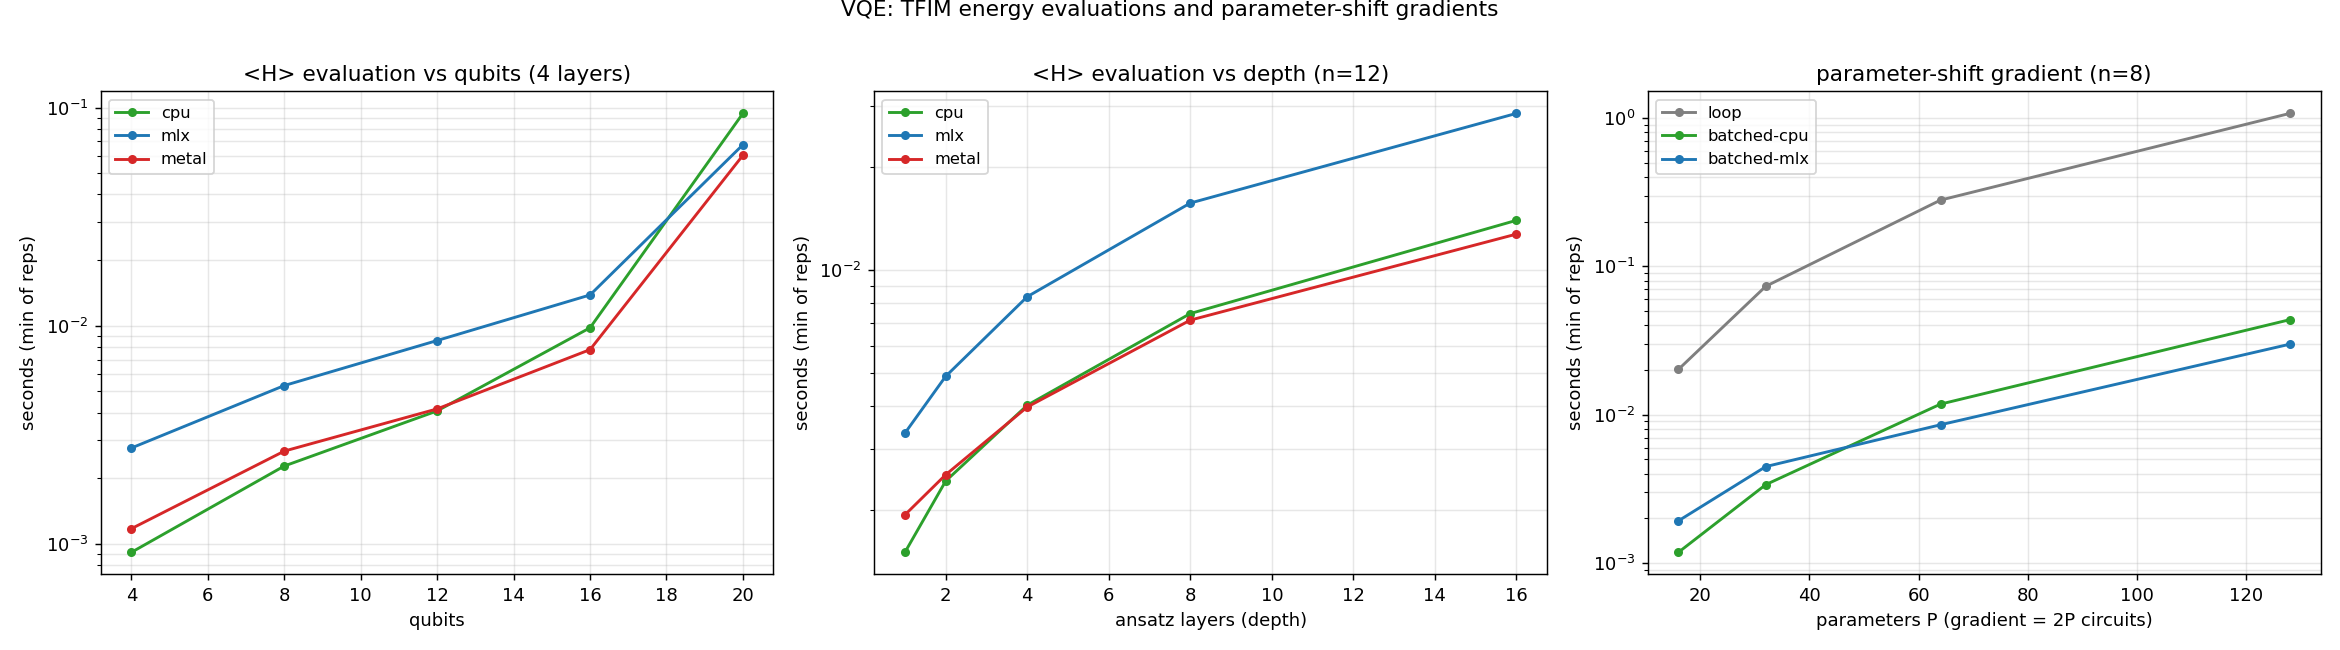
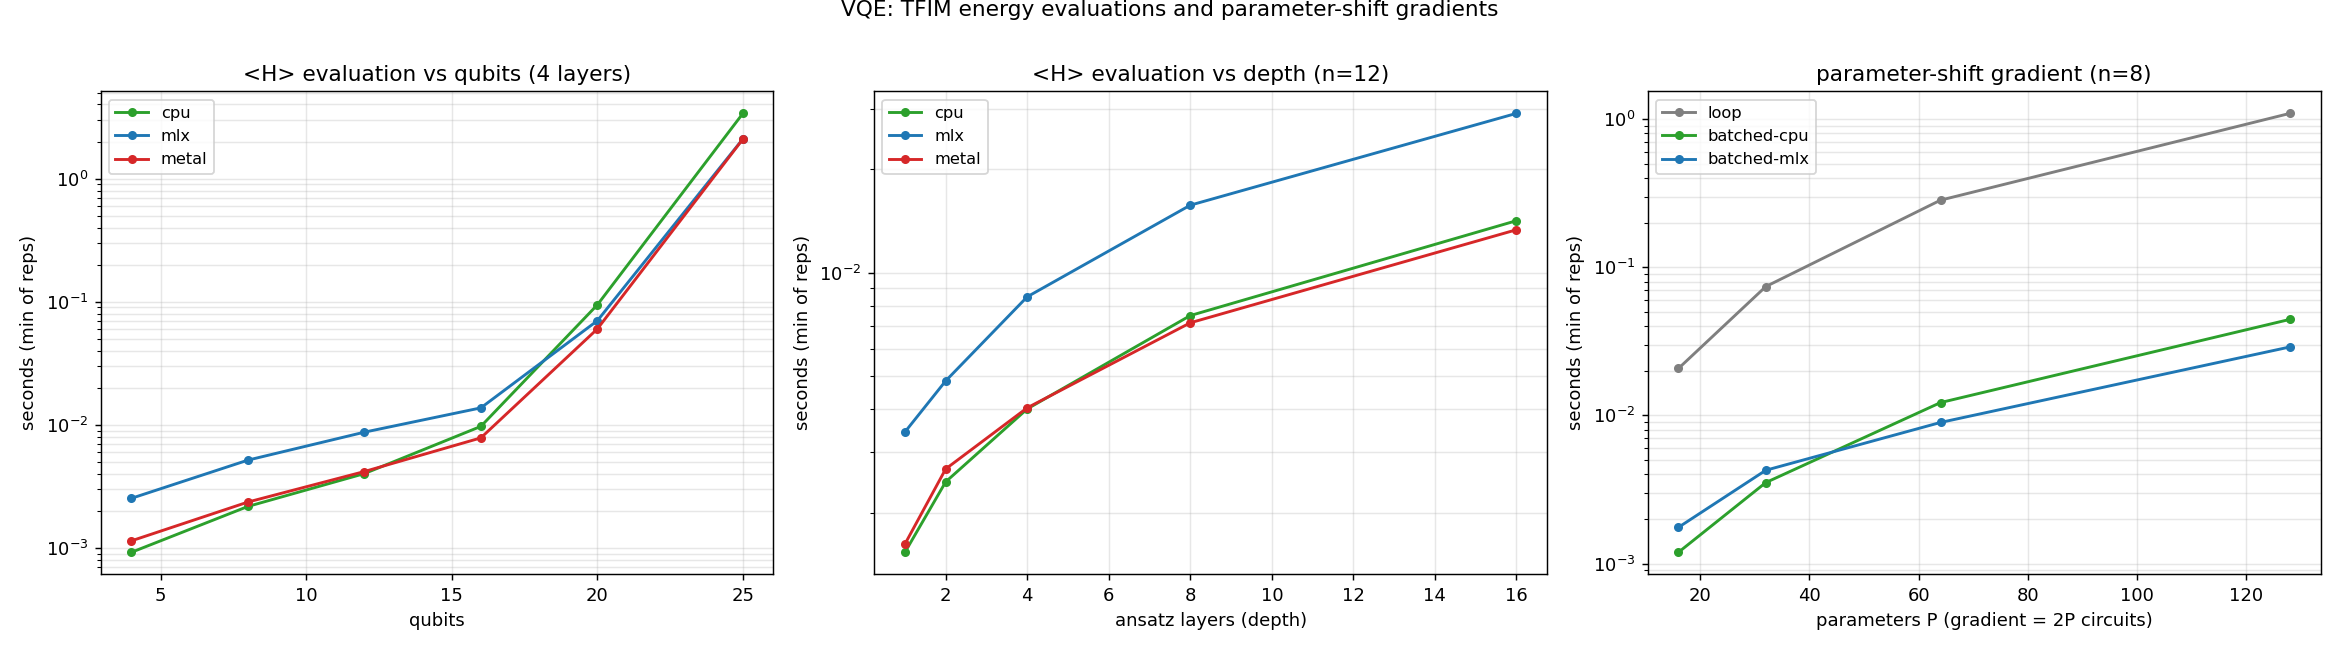
Run the VQE energy sweep to 25 qubits
Reverts the 31/30-qubit ceilings (commit 31c6002): at those sizes
expectation_pauli's host path turns each cell into a multi-minute run
and the suite stops being a quick check. A 25-qubit top end keeps the
full benchmark under ~5 minutes while still reaching the regime where
the host expectation path dominates — at 25q one <H> evaluation costs
~2.1 s on Metal/MLX vs ~60 ms at 20q, a ~35x jump for a 32x larger
state, all of it in the per-Pauli-term host passes.

diff --git a/benchmarks/bench_vqe.py b/benchmarks/bench_vqe.py
@@ -20,11 +20,6 @@ x layers, 2*n*layers parameters):
                   for both paths so only the evolution strategy differs.
                   Swept vs P (depth sweep at fixed n).
 
-The energy sweep runs each backend to its ceiling (`MAX_QUBITS` — Metal 31,
-MLX 30, CPU 24; see the constant for why Metal stops at 31 here and not its
-32-qubit statevector limit); large cells use a light one-rep/no-warm-up
-protocol (`LIGHT_QUBITS`).
-
 Usage:
     uv run python benchmarks/bench_vqe.py
     uv run python benchmarks/bench_vqe.py --qubits 4 8 12 --layers 1 2 4 \
@@ -48,18 +43,6 @@ from macquerel.simulator import _make_backend
 BACKENDS = ["cpu", "mlx", "metal"]
 BACKEND_COLORS = {"metal": "#d62728", "mlx": "#1f77b4", "cpu": "#2ca02c"}
 GRAD_COLORS = {"loop": "#7f7f7f", "batched-cpu": "#2ca02c", "batched-mlx": "#1f77b4"}
-
-# Per-backend qubit ceilings for the energy sweep. MLX stops at 30 (int32
-# ShapeElem). Metal's statevector ceiling is 32, but `expectation_pauli`'s
-# host path holds ~4 state-sized buffers at once (the GPU state, its to_numpy
-# copy, the per-term working copy, and a conj() temporary) — at 32q that is
-# 4 x 32 GiB, beyond a 128 GiB machine, so the energy sweep stops at 31
-# (4 x 16 GiB). The CPU cap is patience, not memory.
-MAX_QUBITS = {"cpu": 24, "mlx": 30, "metal": 31}
-# At and above this qubit count, energy cells run one rep with no warm-up:
-# they are bandwidth-bound multi-second runs where dispatch noise and pipeline
-# compilation are negligible.
-LIGHT_QUBITS = 24
 
 
 def ansatz(n: int, thetas: np.ndarray, layers: int) -> Circuit:
@@ -108,9 +91,8 @@ def tfim_energy_host(states: np.ndarray, n: int, j: float = 1.0, h: float = 1.0)
     return e
 
 
-def time_call(fn, reps: int, warmup: bool = True) -> float:
-    if warmup:
-        fn()  # warm-up (kernel/pipeline compilation, buffer pools)
+def time_call(fn, reps: int) -> float:
+    fn()  # warm-up (kernel/pipeline compilation, buffer pools)
     best = float("inf")
     for _ in range(reps):
         t0 = time.perf_counter()
@@ -127,8 +109,7 @@ def time_energy(backend_name: str, n: int, layers: int, reps: int) -> float:
     sim = TrajectorySimulator(backend=backend_name, trajectories=1)
     qc = ansatz(n, random_thetas(n, layers), layers)
     ham = tfim_terms(n)
-    light = n >= LIGHT_QUBITS
-    return time_call(lambda: sim.expectation_pauli(qc, ham), 1 if light else reps, warmup=not light)
+    return time_call(lambda: sim.expectation_pauli(qc, ham), reps)
 
 
 # ----------------------------------------------------------------------------
@@ -161,13 +142,7 @@ def main() -> None:
     ap = argparse.ArgumentParser(
         description=__doc__, formatter_class=argparse.RawDescriptionHelpFormatter
     )
-    ap.add_argument(
-        "--qubits",
-        type=int,
-        nargs="+",
-        default=[4, 8, 12, 16, 20, 24, 28, 30, 31],
-        help="energy-sweep sizes; each backend stops at its MAX_QUBITS ceiling",
-    )
+    ap.add_argument("--qubits", type=int, nargs="+", default=[4, 8, 12, 16, 20, 25])
     ap.add_argument("--layers", type=int, nargs="+", default=[1, 2, 4, 8, 16])
     ap.add_argument("--fixed-layers", type=int, default=4, help="depth for the qubit sweep")
     ap.add_argument("--fixed-qubits", type=int, default=12, help="width for the depth sweep")
@@ -212,9 +187,6 @@ def main() -> None:
     for n in args.qubits:
         row = f"{n:>3} {2 * n * args.fixed_layers:>7}"
         for b in available:
-            if n > MAX_QUBITS[b]:
-                row += f" {'-':>12}"
-                continue
             secs = time_energy(b, n, args.fixed_layers, args.reps)
             results["data"]["qubits"].setdefault(b, []).append([n, secs])
             row += f" {secs * 1e3:>10.2f}ms"